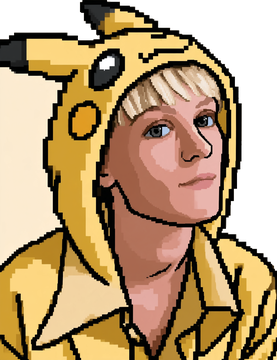
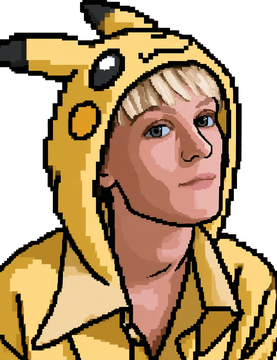
fix: Lena-Boss vollständig freistellen (Rand-Flood erwischt abgeschnittene Creme-Tasche links)

Changed region(s): [[0.0, 0.1833, 0.231, 0.7333], [0.9819, 0.9778, 1.0, 1.0]]

diff --git a/tools/process_assets.py b/tools/process_assets.py
@@ -77,13 +77,20 @@ fb2.save(os.path.join(OUT, "catchbg2.png"))
 print("catchbg2", fb2.size)
 
 # Flood-Fill von den Ecken (entfernt nur den ZUSAMMENHÄNGENDEN Außen-Hintergrund;
-# eingeschlossene helle Flächen bleiben -> gut für den Ball auf Weiß)
-def cutout_flood(im, tol=40):
+# eingeschlossene helle Flächen bleiben -> gut für den Ball auf Weiß).
+# border=True: vom GESAMTEN Rand starten -> erwischt auch Hintergrund-Taschen, die
+# von einer Ecke abgeschnitten sind (z.B. Lena, deren Jacke bis in die Ecke reicht).
+def cutout_flood(im, tol=40, border=False):
     im = im.convert("RGBA"); px = im.load(); w, h = im.size
     from collections import deque
     seen = [[False] * w for _ in range(h)]; q = deque()
     bg = px[0, 0]
-    for cx, cy in [(0, 0), (w-1, 0), (0, h-1), (w-1, h-1)]:
+    if border:
+        seeds = [(x, y) for x in range(w) for y in (0, h-1)] + \
+                [(x, y) for y in range(h) for x in (0, w-1)]
+    else:
+        seeds = [(0, 0), (w-1, 0), (0, h-1), (w-1, h-1)]
+    for cx, cy in seeds:
         if not seen[cy][cx]: q.append((cx, cy)); seen[cy][cx] = True
     def close(a, b): return abs(a[0]-b[0]) < tol and abs(a[1]-b[1]) < tol and abs(a[2]-b[2]) < tol
     while q:
@@ -160,8 +167,10 @@ lukas = fit(cutout_white(Image.open(os.path.join(SRC, "lukas.png"))), 360)
 lukas.save(os.path.join(OUT, "pokemon", "11.png"))
 print("lukas", lukas.size)
 
-# Lena (Level-2-Boss, id 12): cremefarbenen Hintergrund per Ecken-Flood-Fill freistellen
-lena = fit(cutout_flood(Image.open(os.path.join(SRC, "lena.png")), tol=50), 360)
+# Lena (Level-2-Boss, id 12): cremefarbenen Hintergrund freistellen. border=True,
+# weil ihre Jacke bis in die untere Ecke reicht und die Creme-Tasche links sonst
+# abgeschnitten (nicht wegge-floodet) bliebe.
+lena = fit(cutout_flood(Image.open(os.path.join(SRC, "lena.png")), tol=50, border=True), 360)
 lena.save(os.path.join(OUT, "pokemon", "12.png"))
 print("lena", lena.size)
 
